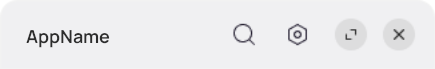
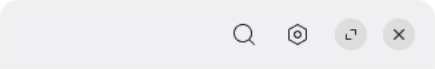
Remove mentions of App Name in App Bar

Changed region(s): [[0.0598, 0.4348, 0.269, 0.6957]]

diff --git a/docs/hig/patterns/app-bars.md b/docs/hig/patterns/app-bars.md
@@ -12,7 +12,7 @@ App Bars depend on context for their styling. For Primary Windows without Sideba
 
 No actions, unless needed, should be text-form instead of an icon in an App Bar. And they should always be on the right of the App Bar.
 
-The most common actions you'll find in one are the app name, search, an optional specific action, and then the App Menu, in that order. The app name should only be shown once in the entire app, and always be on the left of the App Bar. Centered title position is reserved for other custom functionality such as View Switchers, if the layout demands it.
+The most common actions you'll find in one are search, an optional specific action, and then the App Menu, in that order. Centered title position is reserved for other custom functionality such as View Switchers, if the layout demands it.
 
 - If more actions are needed to be here, put them on the Menu.
 
